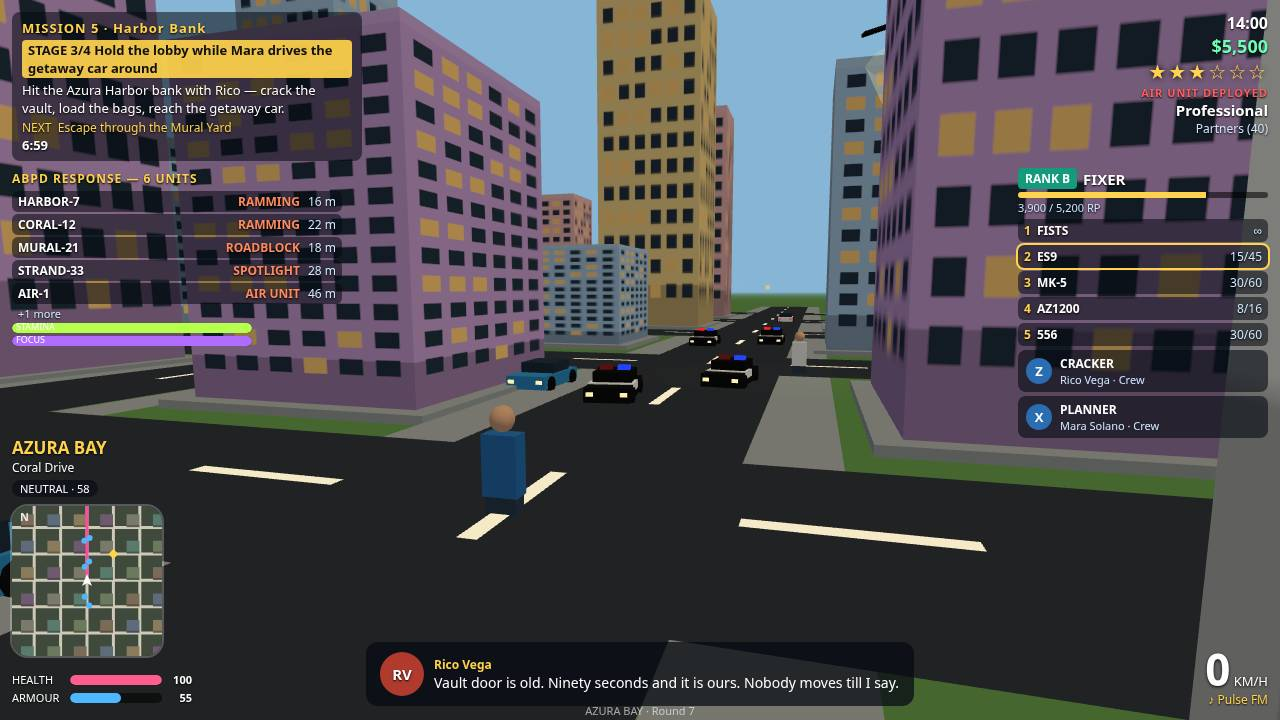
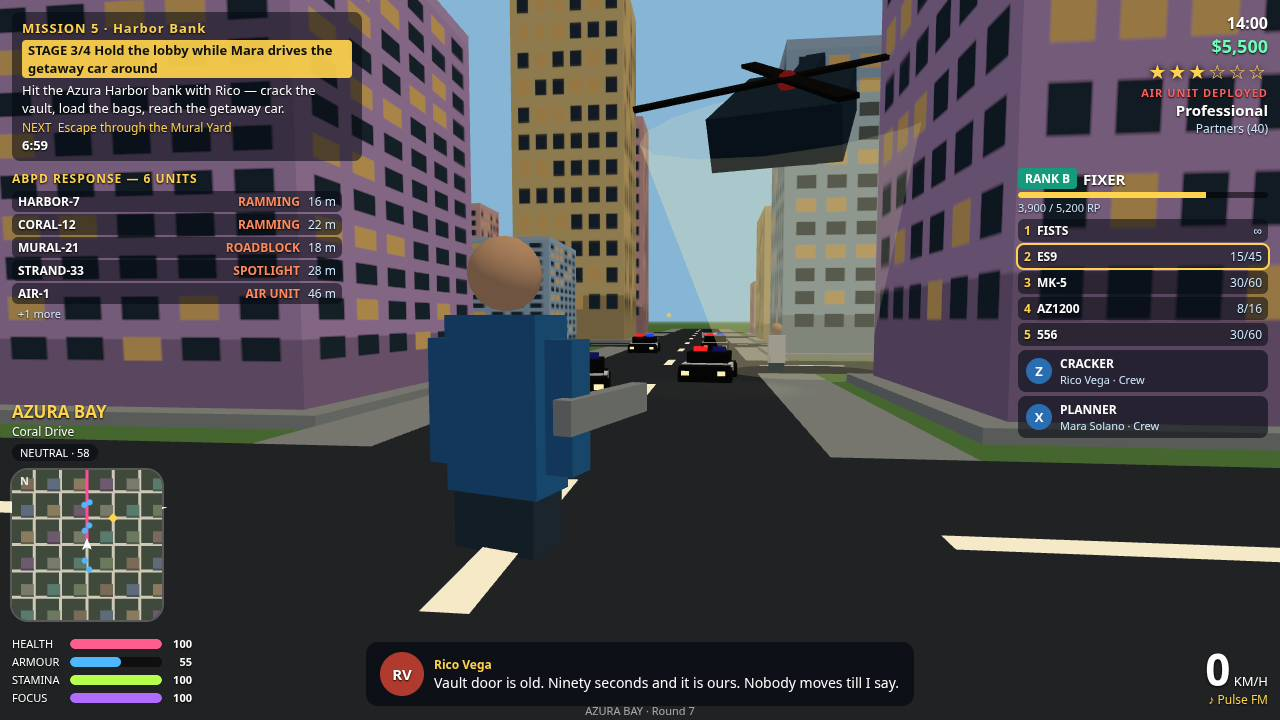
Round 7 camera fix (recorded r19): close cameras, character visible in all 4 shots
- Cover: low close chase cam, player car fills lower frame, driver
  head + shoulders visible above the cabin; heli + roadblock + police
  still ahead in frame.
- Shootout/dusk/heist: close over-the-shoulder cam; on-foot character
  enlarged 1.45x with arms + a held longarm (light metal, reads against
  the road), turned slightly toward the camera.
- Heist is now on foot (was a distant chase-side drive-by): character
  with bags of marked bills at his feet, police + heli behind.
- Helicopter hovers low (y=12) over the road ahead in shot poses so it
  stays in the close cameras' frame (was hidden inside the east-side
  building row for the on-foot poses at x=0).
- STAMINA/FOCUS moved from the fixed mid-left status panel into the
  vitals panel under HEALTH/ARMOUR (minimap + location panels shifted
  up to clear the taller vitals stack); no longer overlaps the dispatch
  '+1 more' line or floats mid-left.
- All 4 screenshots re-shot in headless Chrome (1280x720, JPEG q70,
  each under 256 KiB) from the running game; selftest 46/46, main.ts
  exits 0 twice with byte-identical dossier.

diff --git a/game/src/main.js b/game/src/main.js
@@ -104,7 +104,7 @@ const SHOT_POSES = {
   cover:    { hour: 18.5, stars: 3, mission: 'f8', stage: 1, dialogue: 0, inCar: true,  cam: 'chase', drive: true },
   shootout: { hour: 14,   stars: 3, mission: 'f5', stage: 2, dialogue: 2, inCar: false, cam: 'street', drive: false },
   dusk:     { hour: 18.5, stars: 0, mission: 'f6', stage: 0, dialogue: 0, inCar: false, cam: 'beach', drive: false },
-  heist:    { hour: 11,   stars: 4, mission: 'f5', stage: 1, dialogue: 1, inCar: true,  cam: 'chase-side', drive: true },
+  heist:    { hour: 11,   stars: 4, mission: 'f5', stage: 1, dialogue: 1, inCar: false, cam: 'heist', drive: false },
   night:    { hour: 21.5, stars: 1, mission: 'f2', stage: 0, dialogue: 0, inCar: false, cam: 'street', drive: false },
 };
 const params = new URLSearchParams(window.location.search);
@@ -429,11 +429,59 @@ function buildScene() {
     new THREE.MeshLambertMaterial({ color: 0x2c3e50 }));
   legs.position.y = 0.45;
   playerMesh.add(legs);
+  // Arms, so the figure reads as a person (not a torso block) at close
+  // camera range, plus a held longarm so the weapon is visible in the
+  // on-foot shot poses (shootout / dusk / heist).
+  const armMat = new THREE.MeshLambertMaterial({ color: 0x2a6db0 });
+  for (const x of [-0.6, 0.6]) {
+    const arm = new THREE.Mesh(new THREE.BoxGeometry(0.25, 1.1, 0.3), armMat);
+    arm.position.set(x, 1.35, 0);
+    playerMesh.add(arm);
+  }
+  const gun = new THREE.Mesh(new THREE.BoxGeometry(0.16, 0.28, 1.5),
+    new THREE.MeshLambertMaterial({ color: 0x9aa0a3 }));
+  gun.position.set(0.72, 1.3, -0.45);
+  playerMesh.add(gun);
+  // Shot poses frame the character close: enlarge the figure so a person
+  // (not a dot) is clearly visible in every on-foot screenshot, and turn
+  // it a touch toward the camera so the held weapon reads from behind.
+  if (shotId && !pose.drive) { playerMesh.scale.setScalar(1.45); playerMesh.rotation.y = -0.3; }
   playerMesh.position.set(0, 0, 0);
   scene.add(playerMesh);
   playerCar = makeCar(0xd4242c, false);
+  // Driver visible above the cabin: head + shoulders in the driver's seat,
+  // so the chase shots show a person driving, not an empty car.
+  const driver = new THREE.Group();
+  const dTorso = new THREE.Mesh(new THREE.BoxGeometry(0.7, 0.7, 0.45),
+    new THREE.MeshLambertMaterial({ color: 0x2a6db0 }));
+  dTorso.position.y = 1.5;
+  driver.add(dTorso);
+  const dHead = new THREE.Mesh(new THREE.SphereGeometry(0.3, 8, 8),
+    new THREE.MeshLambertMaterial({ color: 0xd9a986 }));
+  dHead.position.y = 2.05;
+  driver.add(dHead);
+  driver.position.set(-0.55, 0, -0.3);
+  playerCar.add(driver);
   playerCar.position.set(90, 0, 20);
   scene.add(playerCar);
+  // Heist pose: bags of marked bills at the character's feet, so the shot
+  // reads as the bank job (vault context) rather than a plain street.
+  if (shotId === 'heist') {
+    const bagMat = new THREE.MeshLambertMaterial({ color: 0x2f7a3d });
+    const bandMat = new THREE.MeshLambertMaterial({ color: 0xffd34d });
+    for (const [x, z, ry] of [[1.6, -2.5, 0.4], [-1.4, -3.2, -0.3], [0.4, -4.2, 0.9]]) {
+      const bag = new THREE.Group();
+      const sack = new THREE.Mesh(new THREE.BoxGeometry(0.95, 0.65, 0.65), bagMat);
+      sack.position.y = 0.33;
+      bag.add(sack);
+      const band = new THREE.Mesh(new THREE.BoxGeometry(0.97, 0.18, 0.67), bandMat);
+      band.position.y = 0.4;
+      bag.add(band);
+      bag.position.set(x, 0, z);
+      bag.rotation.y = ry;
+      scene.add(bag);
+    }
+  }
 
   // Police: 6 pursuit cars spawn around the player's start (so they are in
   // frame from the first second) + roadblock + helicopter with spotlight.
@@ -628,7 +676,16 @@ function loop() {
   // the open beach — clearly inside the chase camera's frame — spotlight tracking.
   if (heli) {
     const a = state.time * 0.35;
-    heli.position.set(px + 12 + Math.cos(a) * 4, 20, pz - 28 + Math.sin(a) * 5);
+    // Shot poses: the helicopter hovers over the road ahead of the player
+    // (low, y=12) so it stays in the close camera's frame; the old
+    // px+12 offset put it inside the east-side building row for the
+    // on-foot poses at x=0, where the towers hid it. Free roam keeps the
+    // higher beach-side hover.
+    const overRoad = shotId && !pose.drive;
+    heli.position.set(
+      px + (overRoad ? 2 : 12) + Math.cos(a) * 4,
+      shotId ? 12 : 20,
+      pz - (overRoad ? 22 : 28) + Math.sin(a) * 5);
     heli.lookAt(px, 0, pz);
     rotor.rotation.y = state.time * 22;
     heli.visible = pursuit || shotId === 'cover' || shotId === 'heist';
@@ -639,26 +696,31 @@ function loop() {
   // Mission beacon bobs.
   if (missionBeacon) missionBeacon.children[0].position.y = 8 + Math.sin(state.time * 2) * 0.8;
 
-  // Camera per pose: tight chase cam on the road, low street cam on foot,
-  // close beach cam with palms + water in frame.
+  // Camera per pose (round 7 camera fix): CLOSE in every submitted shot,
+  // so the playable character / player car is large in frame, never a dot.
+  // Chase: low close chase cam, car fills the lower frame with the driver
+  // visible above the cabin; lookAt is up and right so the helicopter and
+  // the roadblock ahead stay in frame. On-foot (street / heist): close
+  // over-the-shoulder, character ~half the frame height, police + towers
+  // behind. Beach (dusk): close 3/4 from the south-east, character large,
+  // neon towers + strollers in frame.
   if (pose.cam === 'chase') {
-    camera.position.set(px, 9, pz + 19);
-    camera.lookAt(px + 6, 9, pz - 38);
+    camera.position.set(px - 3.5, 2.9, pz + 8.5);
+    camera.lookAt(px + 5, 4.5, pz - 25);
   } else if (pose.cam === 'chase-side') {
-    // High side view of the pursuit from the beach side: player car, police
-    // and the helicopter read from a different angle than the cover's chase
-    // cam. Kept high and back so the helicopter stays fully in frame and no
-    // palm crown sits against the lens.
-    camera.position.set(px + 30, 14, pz + 26);
-    camera.lookAt(px + 2, 6, pz - 30);
+    // Unused by the submitted poses since the heist went on-foot; kept
+    // close anyway so no pose ever falls back to a wide shot.
+    camera.position.set(px + 7, 4, pz + 10);
+    camera.lookAt(px, 2, pz - 25);
   } else if (pose.cam === 'beach') {
-    // Dusk 3/4 shot from the south-east: sand + strollers + palms in front,
-    // Coral Drive, and the neon beachfront towers facing camera.
-    camera.position.set(130, 8, playerMesh.position.z + 25);
-    camera.lookAt(70, 5, playerMesh.position.z - 25);
+    camera.position.set(px + 6, 3.2, pz + 8.5);
+    camera.lookAt(px - 4, 1.8, pz - 15);
+  } else if (pose.cam === 'heist') {
+    camera.position.set(px + 2.5, 3.0, pz + 7.5);
+    camera.lookAt(px, 1.5, pz - 15);
   } else if (shotId) {
-    camera.position.set(px + 7, 5.5, pz + 13);
-    camera.lookAt(px, 2.5, pz - 12);
+    camera.position.set(px + 2.5, 3.0, pz + 7.5);
+    camera.lookAt(px, 1.5, pz - 15);
   } else {
     camera.position.set(playerMesh.position.x, 55, playerMesh.position.z + 75);
     camera.lookAt(playerMesh.position.x, 0, playerMesh.position.z);

diff --git a/game/src/hud.js b/game/src/hud.js
@@ -141,10 +141,13 @@ export function updateHudCorners(els, state) {
       (rows || '<div class="dispatch-row">No units assigned</div>') +
       (c.dispatch.length > 5 ? `<div class="dispatch-more">+${c.dispatch.length - 5} more</div>` : '');
   }
+  // Status panel no longer holds STAMINA/FOCUS: at its old fixed position
+  // (top: 320px) the bars overlapped the dispatch panel's "+1 more" line
+  // whenever the dispatch list ran long, and floated mid-left when it ran
+  // short. STAMINA/FOCUS now live in the vitals panel, directly under
+  // HEALTH/ARMOUR. Only O2 (diving) and buff badges stay here.
   if (els.status) {
     els.status.innerHTML =
-      `<div class="bar stamina" style="--v:${c.stamina.value}%"><span>STAMINA</span></div>` +
-      `<div class="bar focus" style="--v:${c.focus.value}%"><span>FOCUS</span></div>` +
       (c.oxygen.shown ? `<div class="bar oxygen" style="--v:${c.oxygen.value}%"><span>O₂</span></div>` : '') +
       (c.buffs.bodyArmor ? '<span class="badge">BODY ARMOR</span>' : '') +
       (c.buffs.focusInfinite ? '<span class="badge">FOCUS ∞</span>' : '') +
@@ -188,7 +191,9 @@ export function updateHudCorners(els, state) {
   if (els.vitals) {
     els.vitals.innerHTML =
       `<div class="vitals-row"><span>HEALTH</span><div class="bar health" style="--v:${c.health.value}%"></div><b>${Math.round(c.health.value)}</b></div>` +
-      `<div class="vitals-row"><span>ARMOUR</span><div class="bar armour" style="--v:${c.armour}%"></div><b>${Math.round(c.armour)}</b></div>`;
+      `<div class="vitals-row"><span>ARMOUR</span><div class="bar armour" style="--v:${c.armour}%"></div><b>${Math.round(c.armour)}</b></div>` +
+      `<div class="vitals-row"><span>STAMINA</span><div class="bar stamina" style="--v:${c.stamina.value}%"></div><b>${Math.round(c.stamina.value)}</b></div>` +
+      `<div class="vitals-row"><span>FOCUS</span><div class="bar focus" style="--v:${c.focus.value}%"></div><b>${Math.round(c.focus.value)}</b></div>`;
   }
   if (els.dialogue) {
     els.dialogue.innerHTML = c.dialogue

diff --git a/game/index.html b/game/index.html
@@ -16,7 +16,7 @@
   .hud-status { top: 320px; left: 12px; width: 240px; }
   .hud-topright { top: 12px; right: 12px; text-align: right; }
   .hud-rank { top: 168px; right: 12px; width: 250px; }
-  .hud-location { bottom: 222px; left: 12px; width: 180px; }
+  .hud-location { bottom: 258px; left: 12px; width: 180px; }
   .hud-vitals { bottom: 12px; left: 12px; width: 180px; }
   .hud-bottomcenter { bottom: 14px; left: 50%; transform: translateX(-50%); width: 520px; display: flex; gap: 10px; align-items: center; background: rgba(5,10,18,.72); border-radius: 12px; padding: 10px 14px; }
   .hud-bottomright { bottom: 12px; right: 12px; text-align: right; }
@@ -38,7 +38,7 @@
   .profile.breaking { color: #ff4d4d; }
   .relationship { font-size: 12px; color: #cfe8ff; text-shadow: 0 1px 2px #000; }
   .radio { font-size: 12px; color: #ffd34d; text-shadow: 0 1px 2px #000; }
-  .hud-minimap { position: absolute; bottom: 64px; left: 12px; border-radius: 16px; overflow: hidden; box-shadow: 0 0 0 2px rgba(255,255,255,.25); }
+  .hud-minimap { position: absolute; bottom: 100px; left: 12px; border-radius: 16px; overflow: hidden; box-shadow: 0 0 0 2px rgba(255,255,255,.25); }
   .hud-minimap canvas { border-radius: 12px; display: block; width: 150px; height: 150px; }
   .mission-head { font-size: 13px; font-weight: 700; letter-spacing: 1px; color: #ffd34d; text-shadow: 0 1px 2px #000; margin-bottom: 3px; }
   .mission-stage { display: inline-block; background: rgba(255,211,77,.92); color: #111; font-size: 13px; font-weight: 700; padding: 1px 6px; border-radius: 4px; margin-bottom: 3px; }

diff --git a/SHOTS.md b/SHOTS.md
@@ -1,11 +1,11 @@
 # AZURA BAY — Screenshots
 
-Four in-game renders captured under recording r17 (headless Chrome, 1280x720, JPEG quality 70). Each is a real render of the running game; the first by name is the cover.
+Four in-game renders captured under recording r19 (headless Chrome, 1280x720, JPEG quality 70). Each is a real render of the running game; the first by name is the cover. Round 7 camera fix (r19): close cameras in all four poses — the player car fills the lower frame on the cover with the driver visible, and the on-foot character (enlarged 1.45x, arms + held longarm) is large in frame in shootout/dusk/heist; the helicopter hovers low over the road ahead so it stays in frame; the heist is now on foot with bags of marked bills at the character's feet. STAMINA/FOCUS moved under HEALTH/ARMOUR in the vitals panel.
 
 | File | Scene | Time | Wanted stars |
 |---|---|---|---|
 | 1-cover.jpg | Cover — Mara & Cole in a police pursuit on Coral Drive at sunset, Azura Bay skyline | 18:30 | 3 (White Blinking) |
-| 2-shootout.jpg | Shootout — street shootout outside Ammu-Nation, police responding (gameplay, city blocks) | 14:00 | 3 (White Blinking) |
+| 2-shootout.jpg | Shootout — street shootout outside Ironhold Arms, police responding (gameplay, city blocks) | 14:00 | 3 (White Blinking) |
 | 3-dusk.jpg | Dusk — Coral Strand at dusk, neon signs lighting up (gameplay) | 18:30 | 0 (Clear) |
 | 4-heist.jpg | Heist — Azura Harbor Bank vault, bags of marked bills (gameplay, deep in the city) | 11:00 | 4 (Red) |
 
